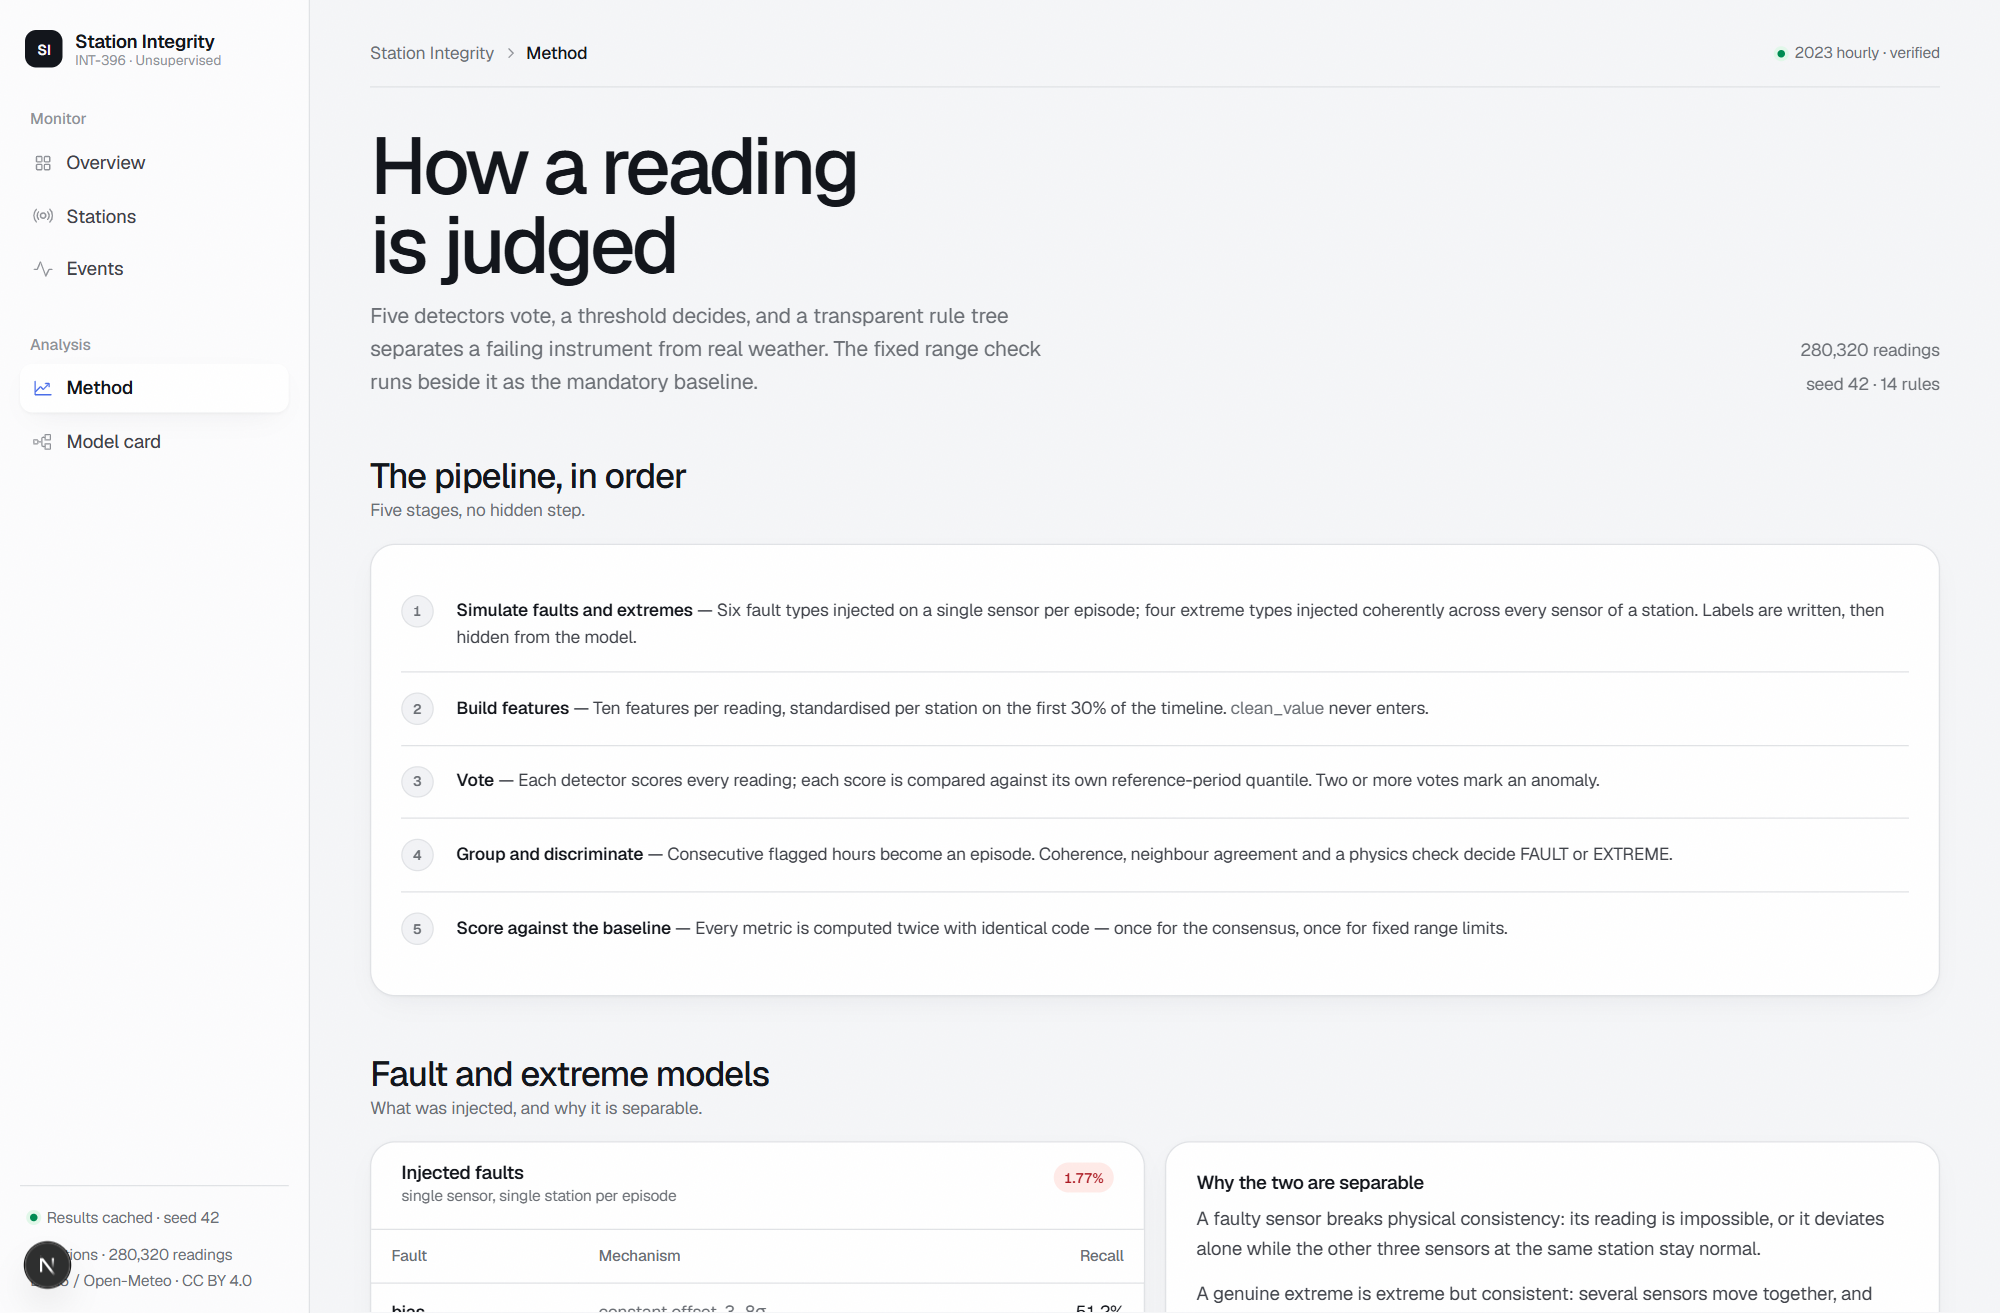
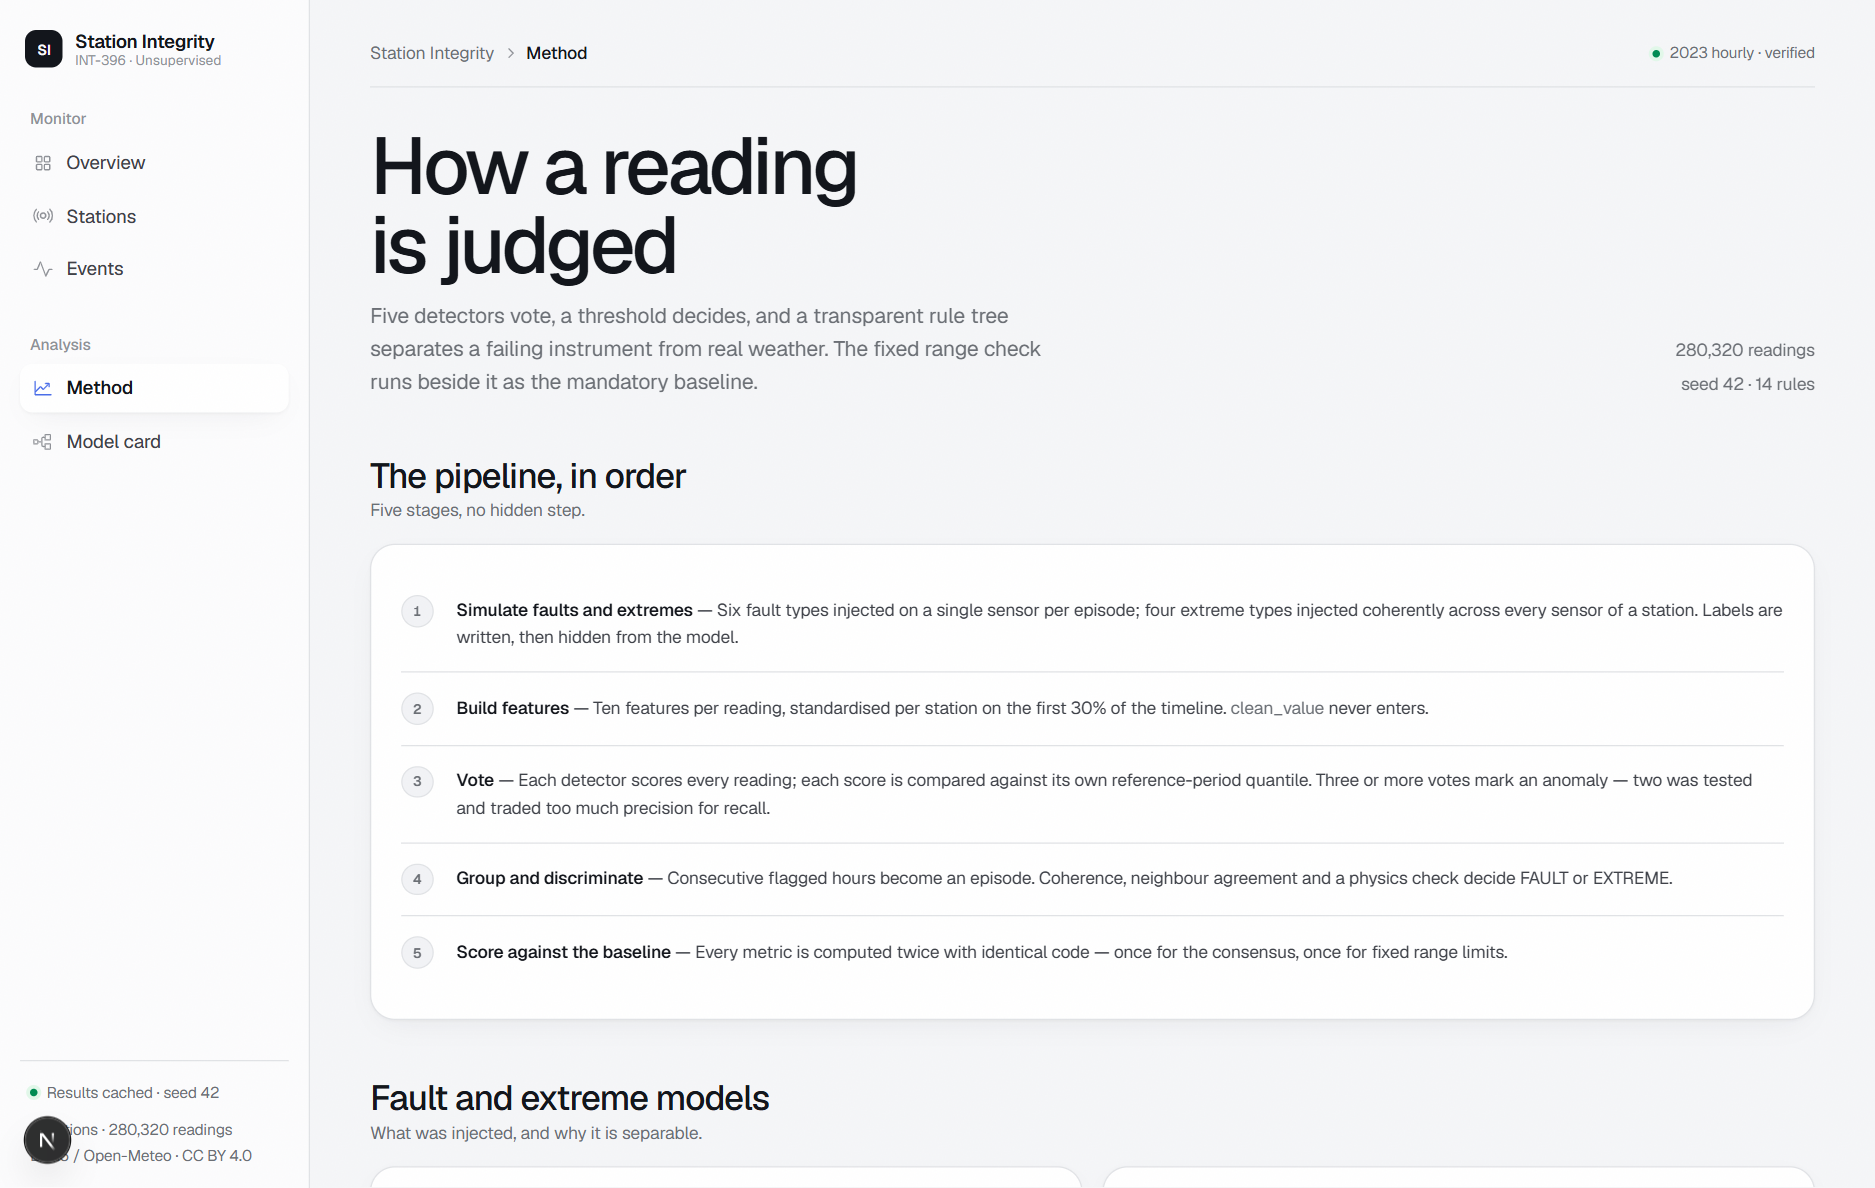
polish: data-driven copy, honest meter scaling, metric table clarity, doc sync

diff --git a/frontend/app/events/page.tsx b/frontend/app/events/page.tsx
@@ -34,6 +34,7 @@ export default async function EventsPage() {
     }, {}),
   ).sort((a, b) => b[1] - a[1]);
   const maxReason = Math.max(...reasonCounts.map((entry) => entry[1]), 1);
+  const width = (count: number, peak: number) => Math.sqrt(count / peak) * 100;
 
   return (
     <>
@@ -125,20 +126,37 @@ export default async function EventsPage() {
               <BlurFade delay={0.02} duration={0.6} offset={16}>
                 <div className="card card-pad">
                   <div className="meter-list">
-                    {reasonCounts.map(([reason, count]) => (
-                      <div key={reason} className="meter">
-                        <div className="meter-head">
-                          <span className="meter-name">{reason.replace(/_/g, " ")}</span>
-                          <span className="meter-value">{count}</span>
+                    {reasonCounts.map(([reason, count]) => {
+                      const share = (count / Math.max(events.length, 1)) * 100;
+                      const tone =
+                        reason === "physics_inconsistent" || reason === "isolated_sensor"
+                          ? "fault"
+                          : reason === "coherent_multi_sensor" ||
+                              reason === "coherent_regional" ||
+                              reason === "sustained_regime"
+                            ? "extreme"
+                            : undefined;
+                      return (
+                        <div key={reason} className="meter">
+                          <div className="meter-head">
+                            <span className="meter-name">{reason.replace(/_/g, " ")}</span>
+                            <span className="meter-value">
+                              <span className="meter-count">
+                                {share < 0.1 && share > 0 ? "<0.1" : share.toFixed(1)}%
+                              </span>
+                              <span>{count}</span>
+                            </span>
+                          </div>
+                          <div className="meter-track">
+                            <div
+                              className="meter-fill"
+                              data-tone={tone}
+                              style={{ width: `${width(count, maxReason)}%`, height: "100%" }}
+                            />
+                          </div>
                         </div>
-                        <div className="meter-track">
-                          <div
-                            className="meter-fill"
-                            style={{ width: `${(count / maxReason) * 100}%`, height: "100%" }}
-                          />
-                        </div>
-                      </div>
-                    ))}
+                      );
+                    })}
                   </div>
                 </div>
               </BlurFade>

diff --git a/frontend/app/model/page.tsx b/frontend/app/model/page.tsx
@@ -412,7 +412,6 @@ export default async function ModelPage() {
                     <th style={{ textAlign: "right" }}>Consensus</th>
                     <th style={{ textAlign: "right" }}>Range check</th>
                     <th style={{ textAlign: "right" }}>Delta</th>
-                    <th>Better</th>
                   </tr>
                 </thead>
                 <tbody>
@@ -489,26 +488,25 @@ export default async function ModelPage() {
                           : diff < 0
                             ? "detector"
                             : "baseline";
+                    const detWins = winner === "detector";
                     return (
                       <tr key={row.name}>
                         <td className="cell-strong">{row.name}</td>
-                        <td style={{ textAlign: "right" }}>{row.detector.toFixed(4)}</td>
-                        <td style={{ textAlign: "right" }} className="cell-muted">
+                        <td
+                          style={{ textAlign: "right" }}
+                          className={detWins ? "cell-strong" : undefined}
+                        >
+                          {row.detector.toFixed(4)}
+                        </td>
+                        <td
+                          style={{ textAlign: "right" }}
+                          className={detWins ? "cell-muted" : "cell-strong"}
+                        >
                           {row.baseline.toFixed(4)}
                         </td>
                         <td style={{ textAlign: "right" }} className="cell-muted">
                           {diff > 0 ? "+" : ""}
                           {diff.toFixed(4)}
-                        </td>
-                        <td>
-                          <span
-                            className="chip"
-                            data-tone={
-                              winner === "detector" ? "up" : winner === "tie" ? "neutral" : "down"
-                            }
-                          >
-                            {winner}
-                          </span>
                         </td>
                       </tr>
                     );

diff --git a/frontend/app/stations/[station_id]/page.tsx b/frontend/app/stations/[station_id]/page.tsx
@@ -163,13 +163,35 @@ export default async function StationPage({
                     <div key={row.reason_code} className="meter">
                       <div className="meter-head">
                         <span className="meter-name">{row.reason_code.replace(/_/g, " ")}</span>
-                        <span className="meter-value">{row.count}</span>
+                        <span className="meter-value">
+                          <span className="meter-count">
+                            {(
+                              (row.count /
+                                Math.max(
+                                  detail.fault_breakdown.reduce(
+                                    (sum, item) => sum + item.count,
+                                    0,
+                                  ),
+                                  1,
+                                )) *
+                              100
+                            ).toFixed(0)}
+                            %
+                          </span>
+                          <span>{row.count}</span>
+                        </span>
                       </div>
                       <div className="meter-track">
                         <div
                           className="meter-fill"
                           style={{
-                            width: `${Math.min(100, (row.count / Math.max(...detail.fault_breakdown.map((item) => item.count))) * 100)}%`,
+                            width: `${Math.sqrt(
+                              row.count /
+                                Math.max(
+                                  ...detail.fault_breakdown.map((item) => item.count),
+                                  1,
+                                ),
+                            ) * 100}%`,
                             height: "100%",
                           }}
                         />

diff --git a/frontend/app/method/page.tsx b/frontend/app/method/page.tsx
@@ -1,7 +1,7 @@
 import Link from "next/link";
 import { ArrowUpRight, WarningCircle } from "@phosphor-icons/react/dist/ssr";
-import { getMetrics } from "@/lib/api";
-import { MetricsSummary } from "@/lib/types";
+import { getMetrics, getModelCard } from "@/lib/api";
+import { MetricsSummary, ModelCard } from "@/lib/types";
 import { PageHead, Section, StepList, Callout, KvList } from "@/components/page-parts";
 import { TopBar } from "@/components/top-bar";
 import { BlurFade } from "@/components/ui/blur-fade";
@@ -10,10 +10,11 @@ const percent = (value: number, digits = 1) => `${(value * 100).toFixed(digits)}
 
 export default async function MethodPage() {
   let metrics: MetricsSummary | null = null;
+  let card: ModelCard | null = null;
   let error: string | null = null;
 
   try {
-    metrics = await getMetrics();
+    [metrics, card] = await Promise.all([getMetrics(), getModelCard()]);
   } catch (caught) {
     error = caught instanceof Error ? caught.message : "unknown error";
   }
@@ -65,8 +66,9 @@ export default async function MethodPage() {
                   title: "Build features",
                   body: (
                     <>
-                      Ten features per reading, standardised per station on the first 30% of the
-                      timeline. <span className="cell-muted">clean_value</span> never enters.
+                      {card?.features.count ?? 11} features per reading, standardised per station
+                      on the first 30% of the timeline.{" "}
+                      <span className="cell-muted">clean_value</span> never enters.
                     </>
                   ),
                 },

diff --git a/documentation/methodology.md b/documentation/methodology.md
@@ -65,7 +65,7 @@ a usable signal. Total coverage: 12,060 readings (4.30%).
 
 ## Features
 
-Per `(station, sensor, timestamp)`, ten features — all computed from `measured_value` only:
+Per `(station, sensor, timestamp)`, eleven features — all computed from `measured_value` only:
 
 | Feature | Definition | Targets |
 |---|---|---|
@@ -74,6 +74,7 @@ Per `(station, sensor, timestamp)`, ten features — all computed from `measured
 | rate_of_change | xₜ − xₜ₋₁ | spike |
 | rolling_mean_24h | trailing mean | drift |
 | rolling_std_24h | trailing std | stuck (→0) |
+| flatline_score | 1 when a run of ~6 hours is unchanged to 2dp | stuck |
 | hour_of_day_sin, cos | cyclic encoding | removes diurnal normal variation |
 | rule_violation_count | strong association rules broken | physics plausibility |
 | physics_violation_count | dew point > temperature, humidity outside [0,100], pressure outside [870,1085] | impossible readings |
@@ -96,8 +97,11 @@ Five unsupervised models, each producing one score per reading:
 | LOF (20 neighbours) | −LOF | V |
 
 Each score is converted to a binary vote by comparing against its own **reference-period quantile**
-(0.99). Votes are summed; two or more votes out of five marks the reading anomalous
+(0.99). Votes are summed; three or more votes out of five marks the reading anomalous
 (`is_anomaly`). The soft score `vote_count / 5` drives precision@K ranking.
+
+The threshold was tuned on the reference period only. Two votes raised fault recall from 0.393 to
+0.600 but pushed F1 below the range-check baseline, so three is the operating point.
 
 The reference quantile is deliberately conservative: a threshold at the 95th percentile of the
 reference period flags 5% of healthy data by construction, which is what a naive per-model threshold

diff --git a/README.md b/README.md
@@ -10,6 +10,9 @@ Double-click **`run.bat`** in the project root. It installs dependencies if miss
 pipeline if results are absent, starts the API and the dashboard in separate windows, and opens
 `http://localhost:3000`.
 
+The dashboard proxies its interactive range switch through its own `/api/timeline` route, so the
+client never talks cross-origin to the API.
+
 Manual equivalent:
 
 ```bash
@@ -36,8 +39,8 @@ npm run dev
 |---|---|---|
 | Acquire | `src/acquisition/` | 8 stations × 8,760 hours × 4 sensors |
 | Simulate | `src/simulation/` | 6 fault types, 4 extreme types, ground-truth labels |
-| Feature | `src/features/` | 10 features per reading, reference-period scaling |
-| Detect | `src/detection/consensus_detector.py` | 5 unsupervised models, 2-of-5 vote |
+| Feature | `src/features/` | 11 features per reading, reference-period scaling |
+| Detect | `src/detection/consensus_detector.py` | 5 unsupervised models, 3-of-5 vote |
 | Discriminate | `src/detection/extreme_discriminator.py` | FAULT vs EXTREME rule tree |
 | Evaluate | `src/evaluation/` | metrics JSON, detections CSV, figures |
 | Serve | `main.py` | FastAPI over the result files |
@@ -89,6 +92,7 @@ See `documentation/experiments.md` for the measured numbers and their interpreta
 cd backend
 python -m tests.test_algorithms
 python -m tests.test_metrics
+python -m tests.test_leakage_guard
 ```
 
 ## Troubleshooting
